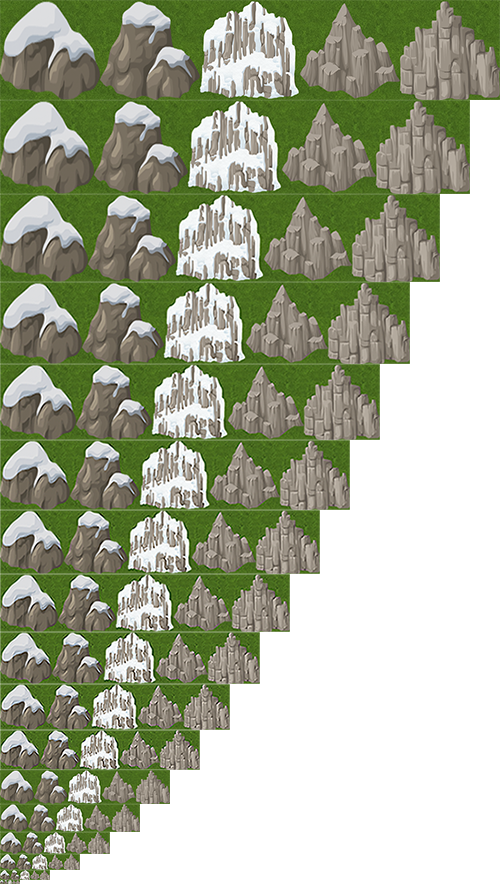
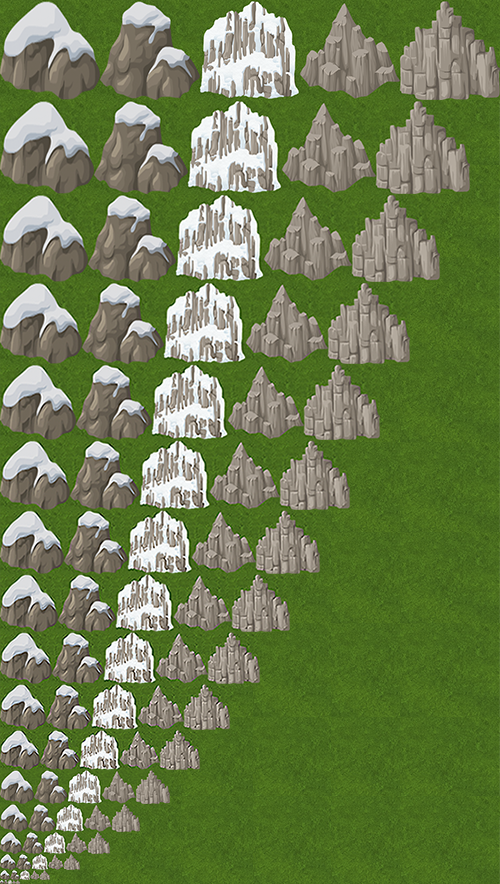
Made edges of grass tiles less distinct

diff --git a/Map.cpp b/Map.cpp
@@ -53,7 +53,7 @@ Map::Map(unsigned int size, Random *r) : width(size), height(size) {
 	
 	if(mountainSurface == NULL) {
                 SDL_Surface * loadedImage = IMG_Load("Mountains.png");
-		SDL_Surface * loadedImage2 = IMG_Load("Grass_all.png");
+		SDL_Surface * loadedImage2 = IMG_Load("Grass.png");
 		SDL_Surface * loadedImage3 = IMG_Load("Water.png");
                 SDL_Surface * optimizedImage = SDL_DisplayFormatAlpha( loadedImage );
 		SDL_Surface * optimizedImage2 = SDL_DisplayFormatAlpha( loadedImage2 );
